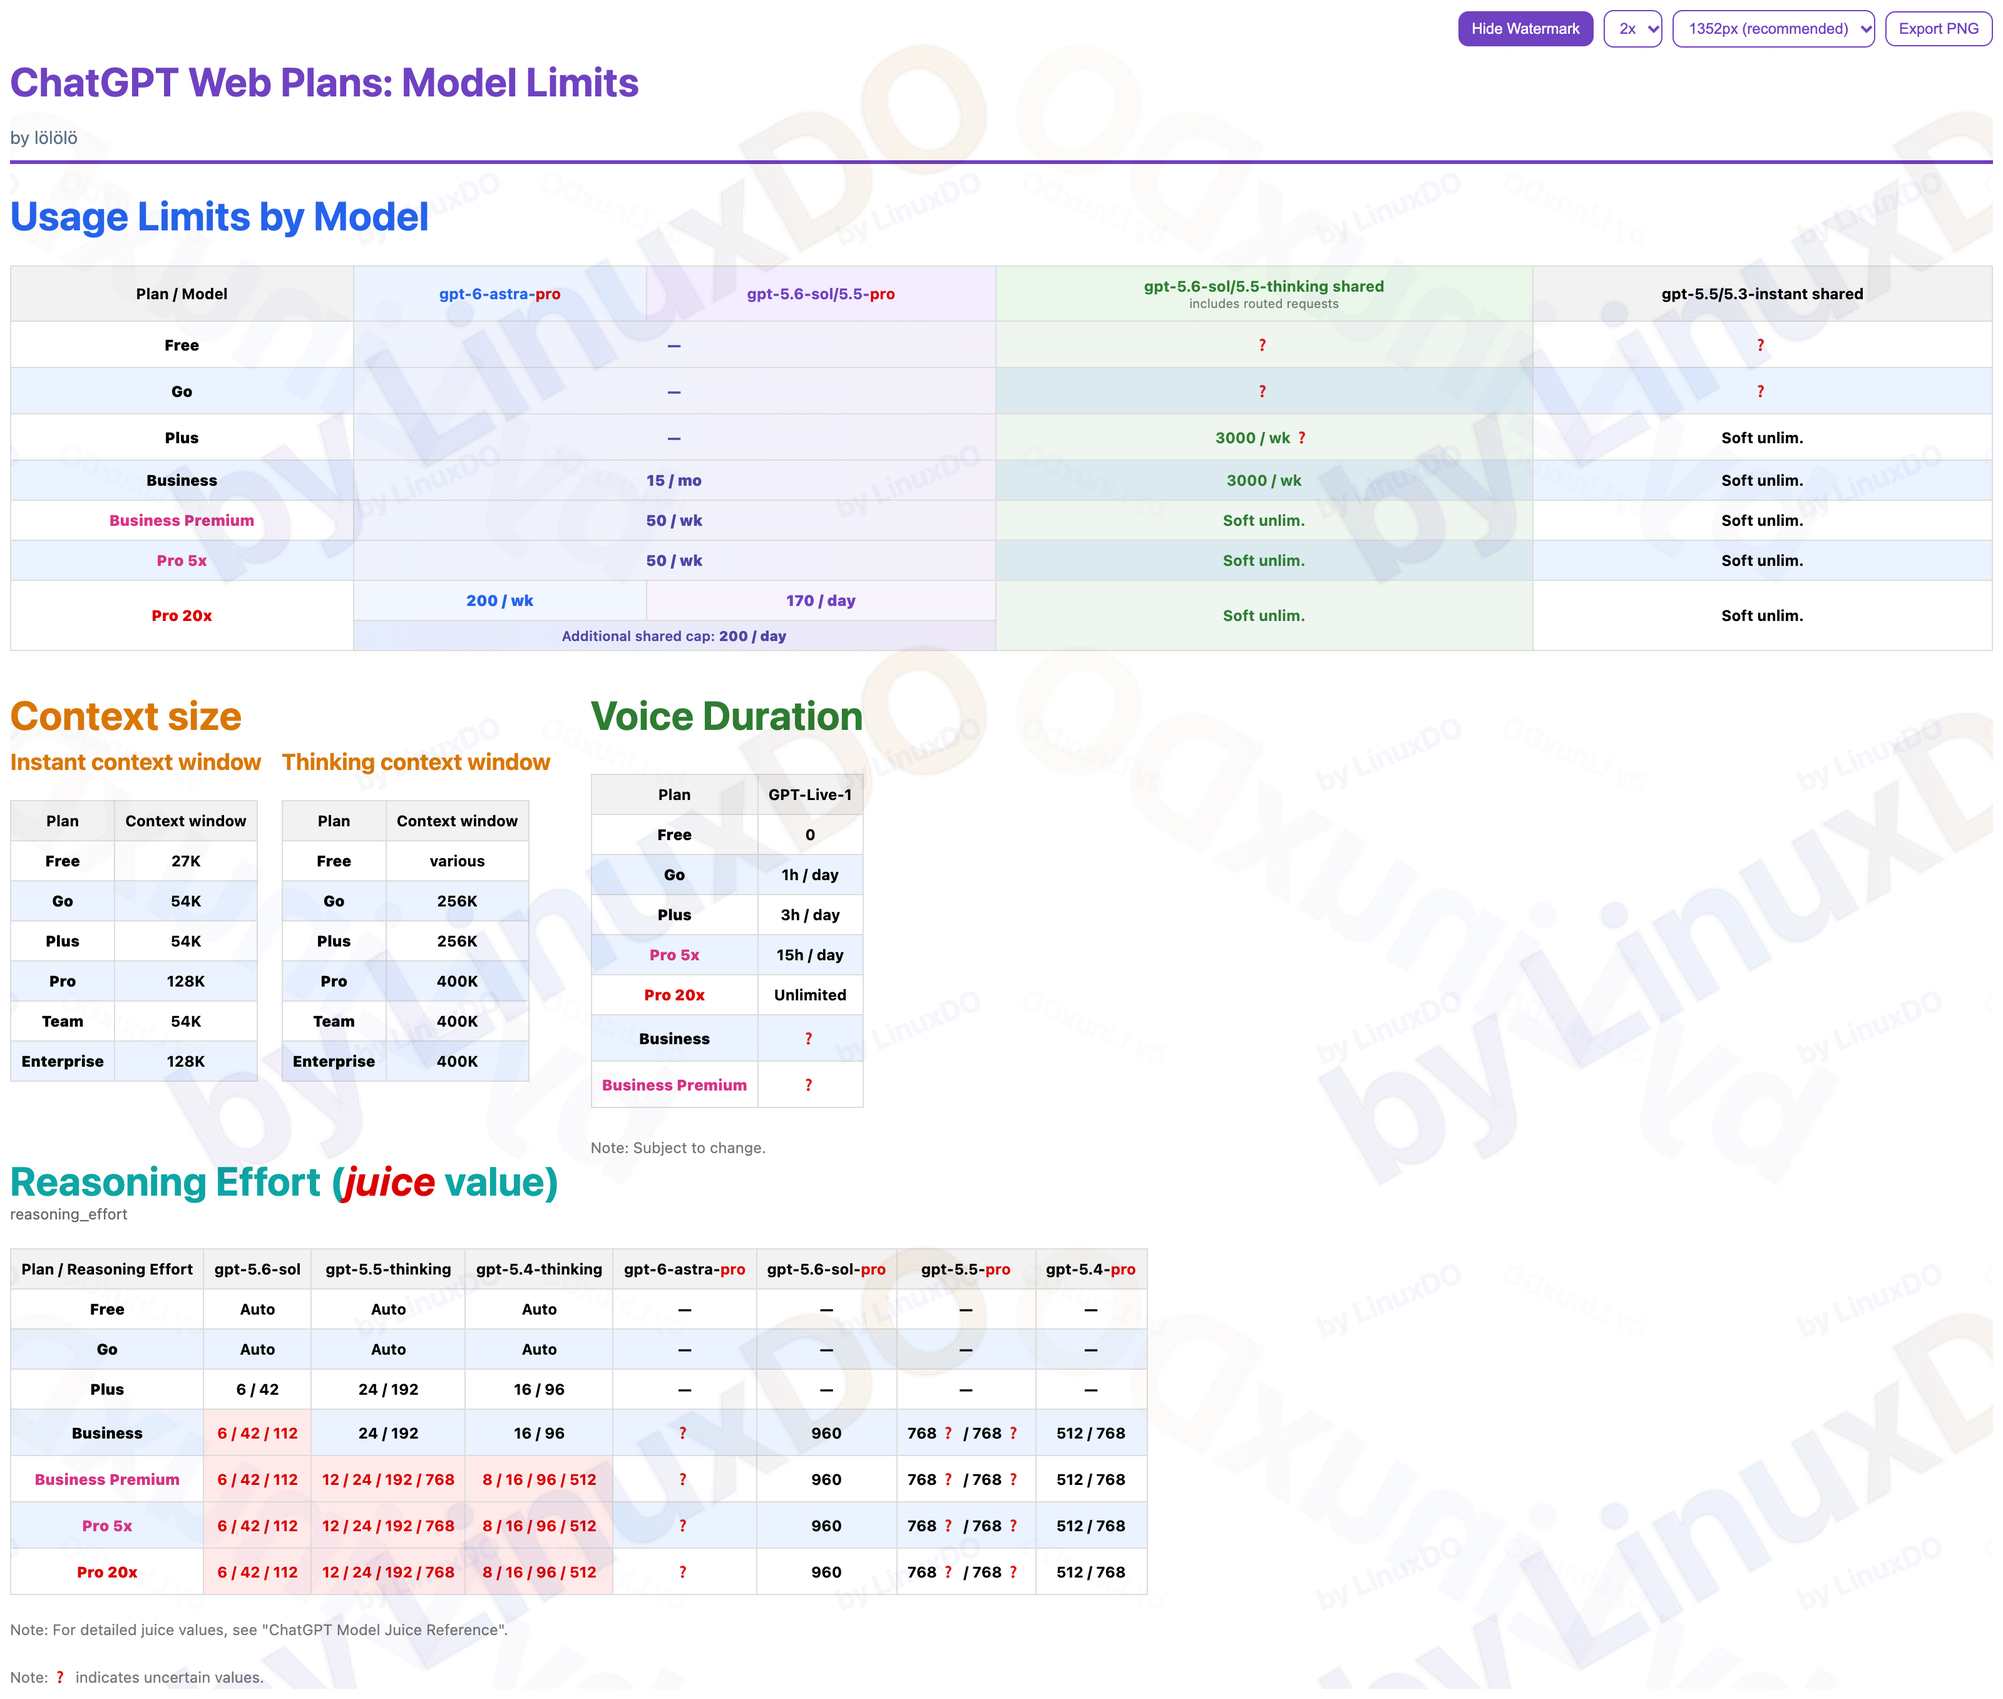
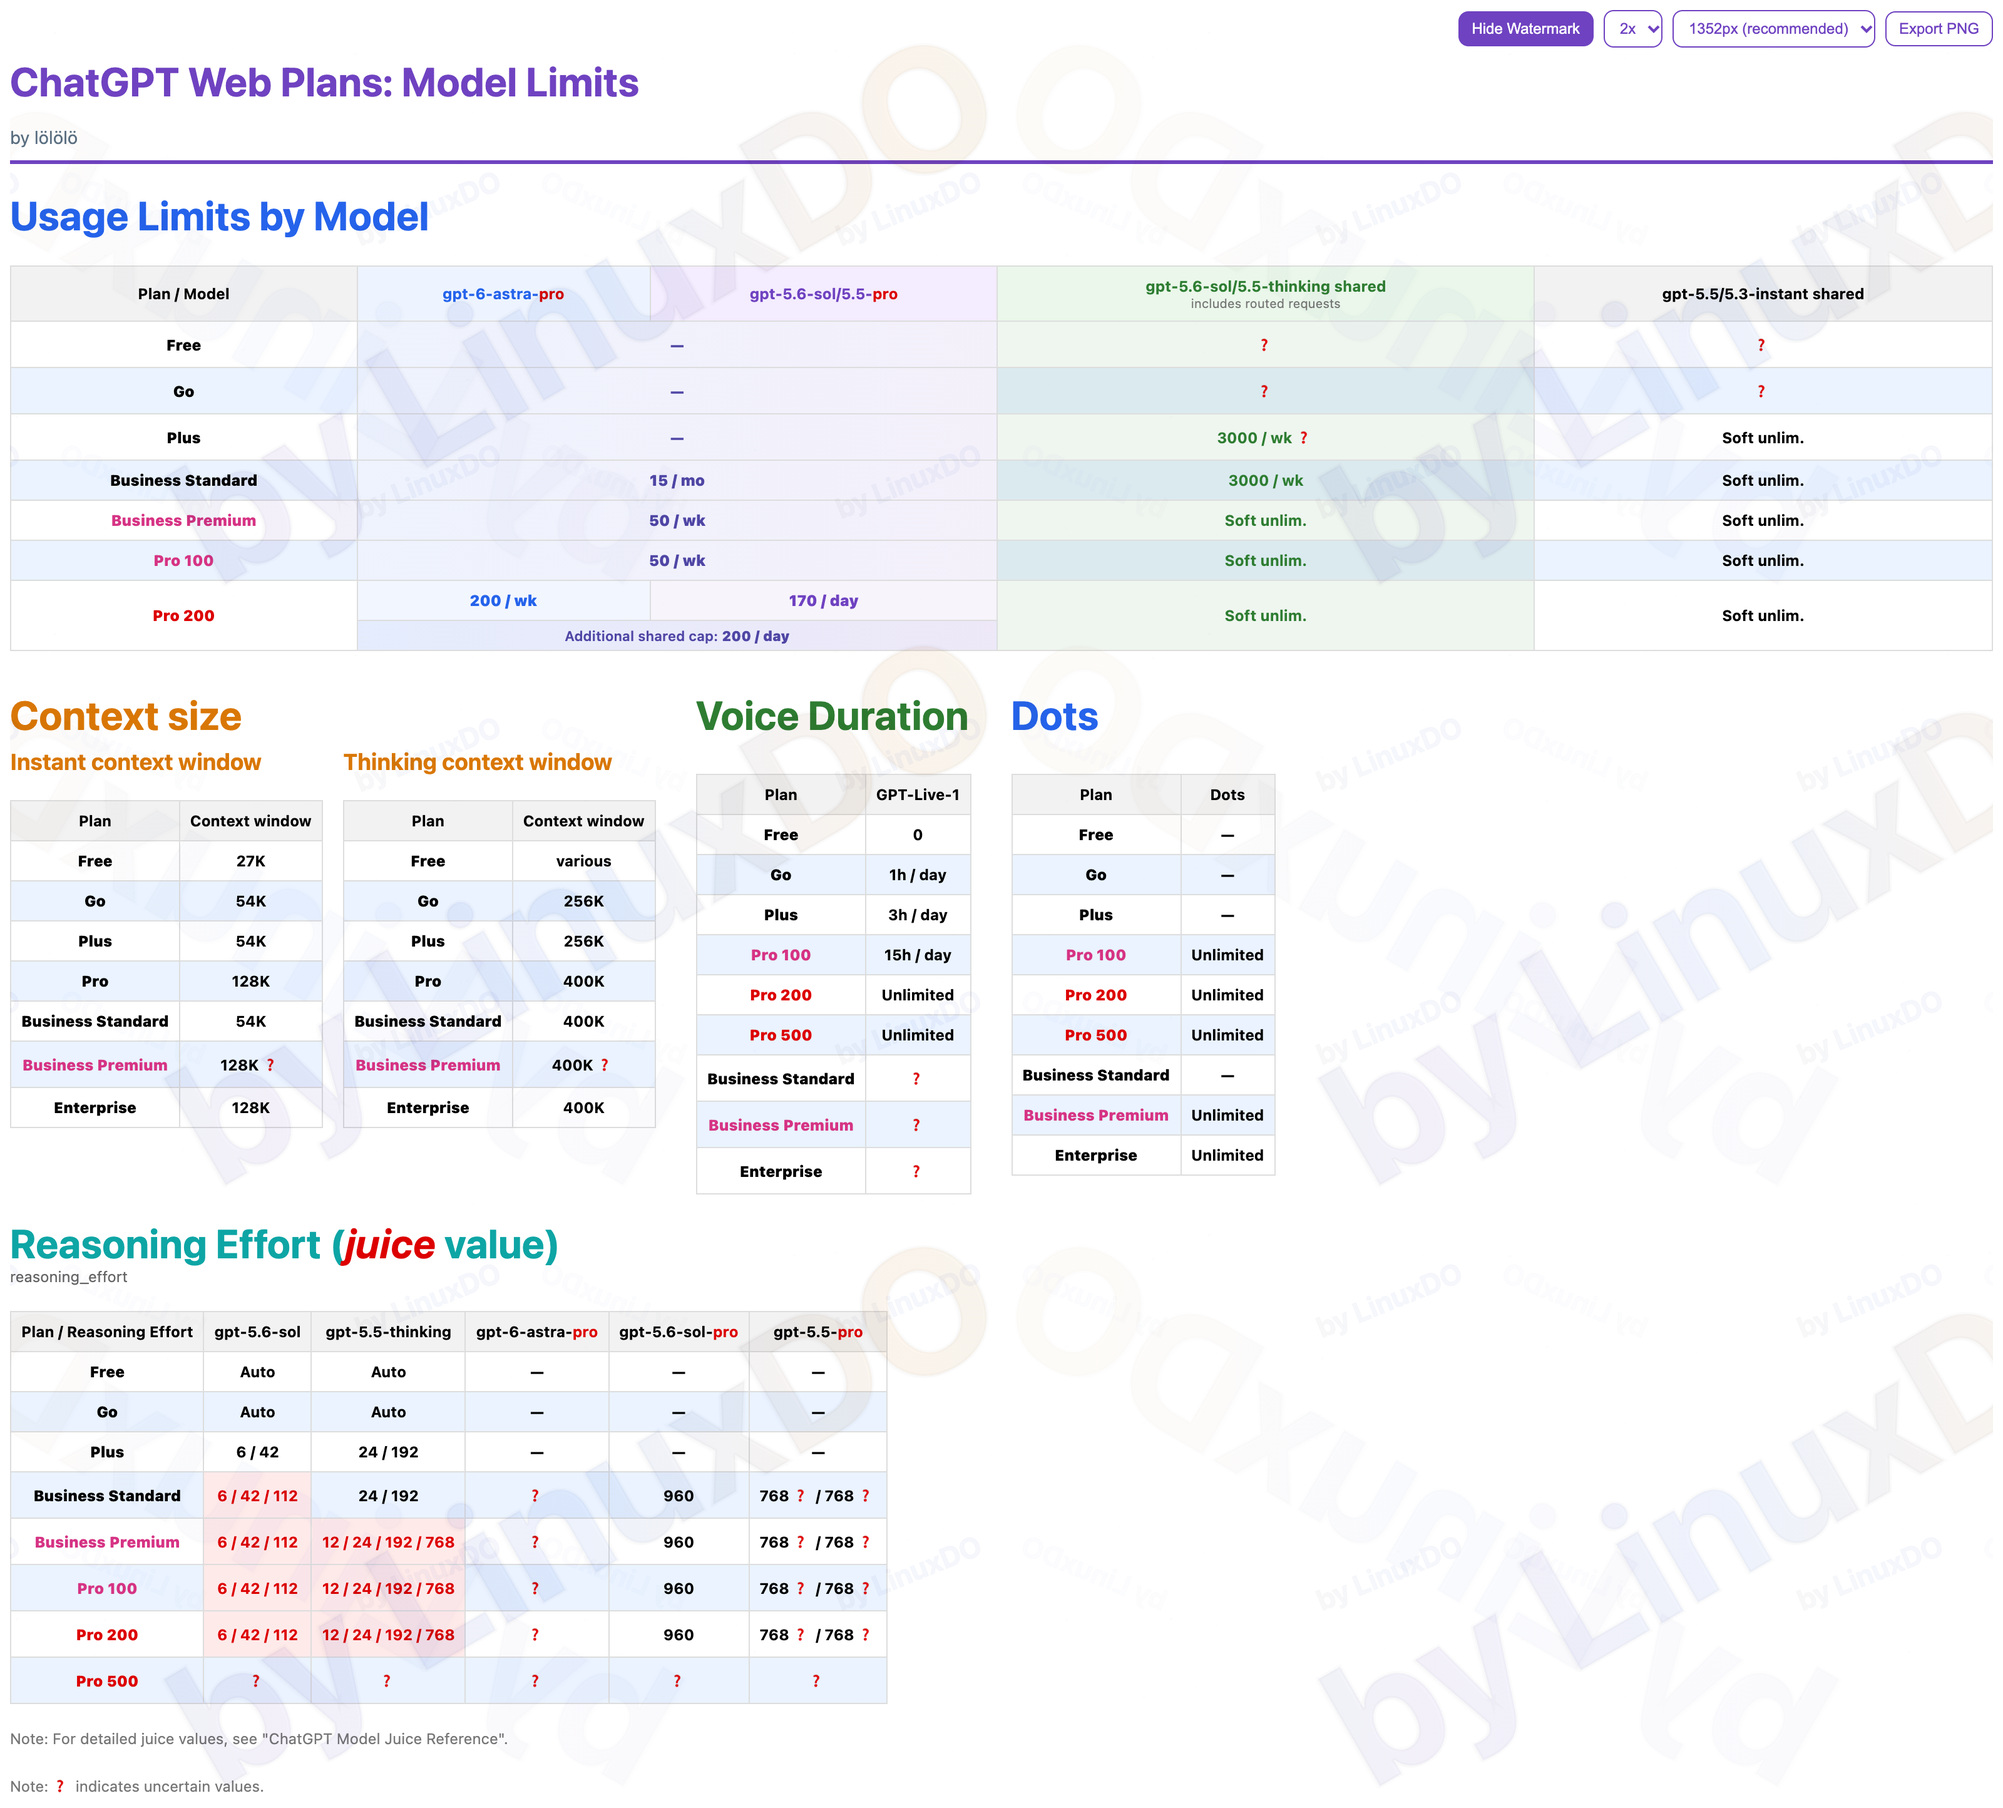
2026.09.30-2: Update bilingual Usage plans, Dots and Pro 500

diff --git a/README.md b/README.md
@@ -6,7 +6,7 @@ Maintenance rules for future GPT editors:
 2) The second line must stay as the Linux.Do website link.
 -->
 
-2026.09.30-1
+2026.09.30-2
 
 [Linux.Do](https://linux.do)
 
